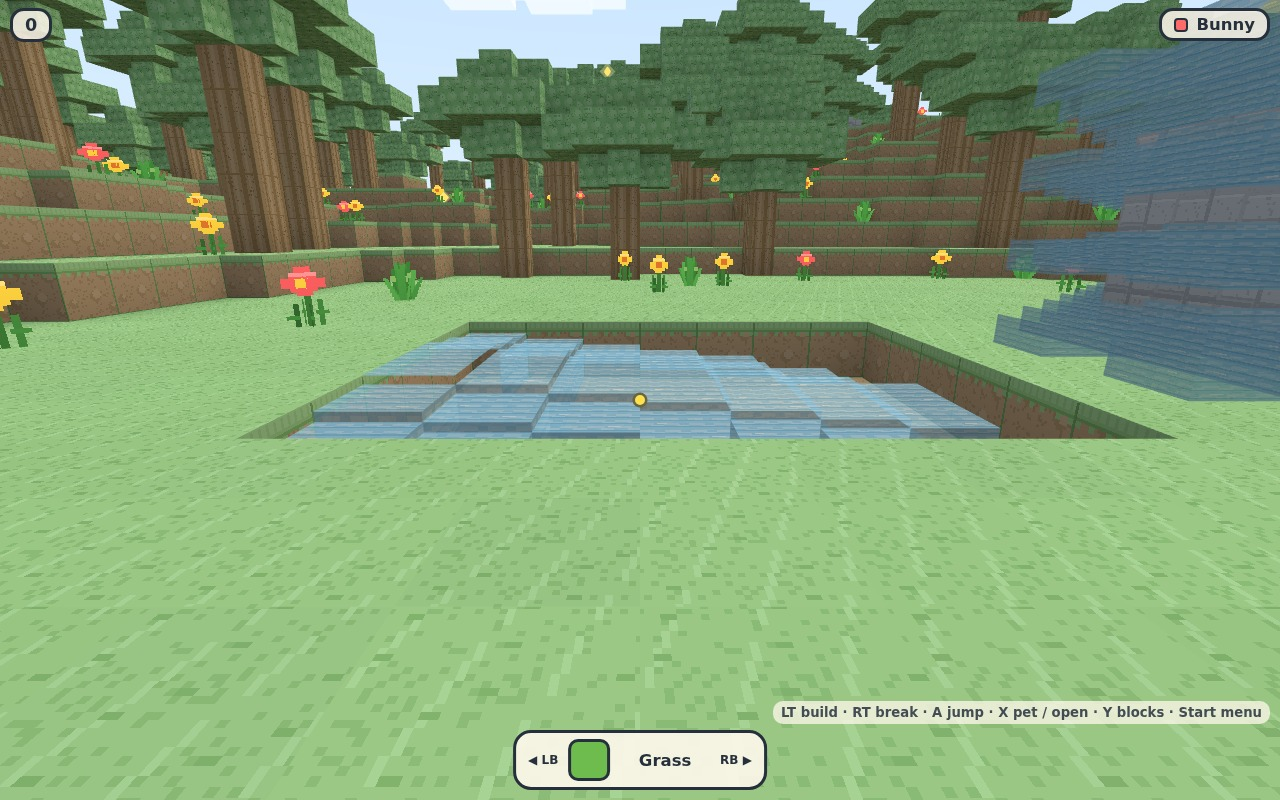
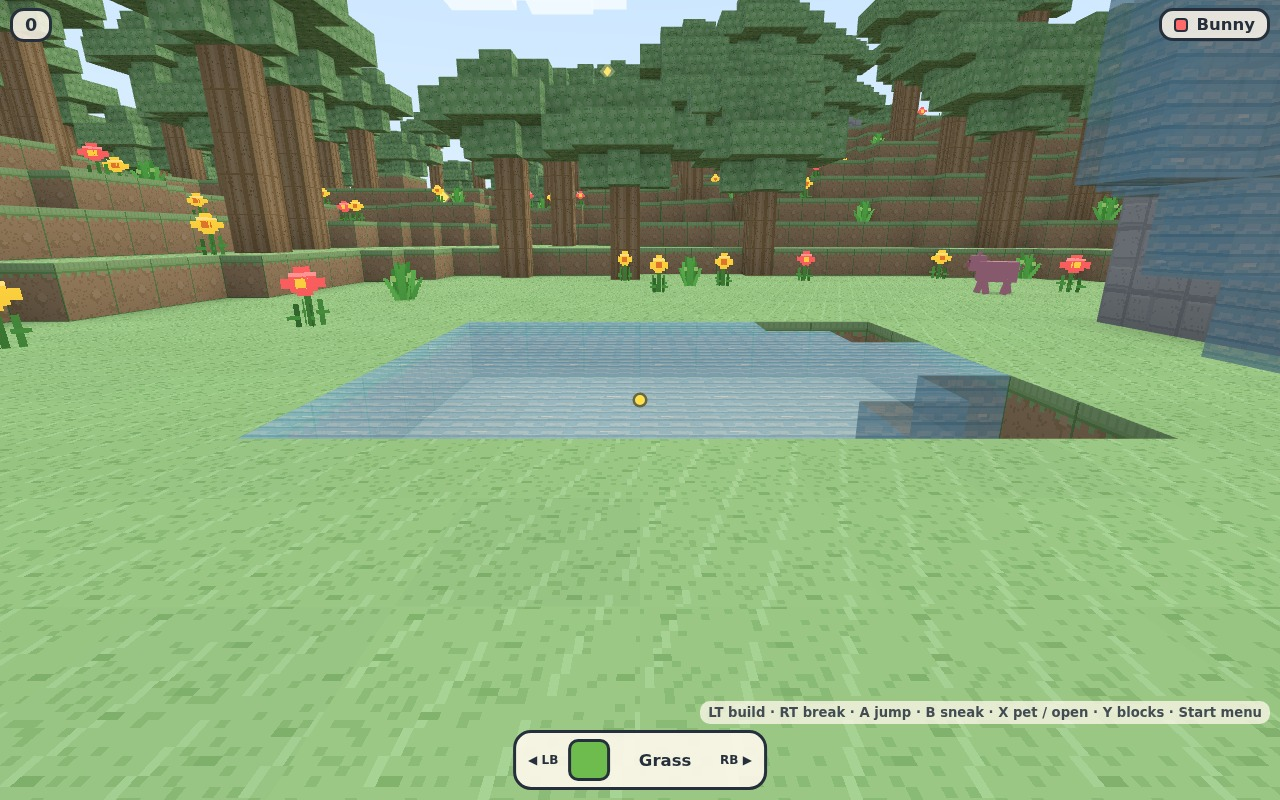
feat(water): render every water cell as a full-height block
Depth levels stay sim-only (reach, drying); the mesher draws sources and
flow cells as the same translucent textured cube, and water<->water face
culling keeps pools reading as one body. Drops the depth-scaled slab and
the now-unused blocks.waterTop(). Re-shoots both PR water screenshots.

diff --git a/scripts/pr-water-shot.ts b/scripts/pr-water-shot.ts
@@ -70,9 +70,11 @@ await page.evaluate(() => {
     }
   }
 
-  // two features on one lawn: a flush pond whose stepped surface shows the
-  // reach limit, and a stone cliff with a source on its rim — the water
-  // cascades down the cliff face in shallowing steps into a splash pool
+  // two features on one lawn: a flush pond whose water reaches exactly six
+  // cells from its sources, and a stone cliff with a source on its rim — the
+  // water spills over the edge and runs down the cliff face into a splash
+  // pool. Everything renders as full water blocks (the flow depths are sim
+  // state, not draw height), so the whole thing reads as one body of water.
   for (let x = mid - 8; x <= mid - 2; x++) {
     for (let z = mid - 3; z <= mid + 2; z++) S.set(x, gy, z, AIR); // pond (floor: ground)
   }
@@ -81,11 +83,10 @@ await page.evaluate(() => {
 
   for (let x = mid + 3; x <= mid + 6; x++) {
     for (let z = mid - 3; z <= mid + 2; z++) {
-      for (let y = gy + 1; y <= gy + 3; y++) S.set(x, y, z, 3); // 3-tall cliff wall
+      for (let y = gy + 1; y <= gy + 7; y++) S.set(x, y, z, 3); // 7-tall cliff tower
     }
   }
-  S.set(mid + 6, gy + 4, mid - 1, WATER); // sources on the rim's east edge
-  S.set(mid + 6, gy + 4, mid + 1, WATER);
+  S.set(mid + 6, gy + 8, mid, WATER); // source on the rim's east edge
 
   // third-person camera will be parked by the shots below
   const p = game.players[0];
@@ -126,14 +127,15 @@ await page.evaluate((m: number) => {
 await page.waitForTimeout(1200);
 await page.screenshot({ path: `${outDir}/water-channel.jpg`, type: 'jpeg', quality: 92 });
 
-// ---- shot 2: the waterfall, full depth all the way down ----
+// ---- shot 2: the waterfall — tall stone tower, full-height cascade ----
+// far south-east so the bare stone faces and the water shelf read separately
 await page.evaluate((m: number) => {
   const game = (window as any).__lbw.game;
   const gy = game.world.surfaceY(m, m);
   const p = game.players[0];
-  p.entity.pos.set(m + 12.5, gy + 1.02, m + 3);
-  p.entity.yaw = Math.atan2(-6.5, -3.5); // look at the cliff face and its cascade
-  p.entity.pitch = -0.24;
+  p.entity.pos.set(m + 10, gy + 10, m + 16);
+  p.entity.yaw = Math.atan2((m + 5) - (m + 10), m - (m + 16)); // face the tower
+  p.entity.pitch = -0.4;
   p.entity.vel.set(0, 0, 0);
 }, Math.floor(128 / 2));
 await page.waitForTimeout(1200);

diff --git a/src/core/mesher.ts b/src/core/mesher.ts
@@ -6,9 +6,9 @@
 
 import * as THREE from 'three';
 import {
-  ATLAS_CELL_COUNT, ATLAS_DOOR, ATLAS_PLANKS, ATLAS_WATER, blockDef, isCrossBlock, isDoorBlock,
+  ATLAS_CELL_COUNT, ATLAS_DOOR, ATLAS_PLANKS, blockDef, isCrossBlock, isDoorBlock,
   isDoorClosedBlock, isFullCellBlock, isOpaqueBlock, isStairsBlock, isTranslucentBlock, isWaterId,
-  PLANT_ATLAS_CELLS, SAND, StairFacing, stairBoxes, VoxelBox, WATER, WATER_FLOW, waterTop,
+  PLANT_ATLAS_CELLS, SAND, StairFacing, stairBoxes, VoxelBox,
 } from './blocks';
 import { CHUNK, idx as worldIdx, WORLD_SY, World } from './world';
 
@@ -194,27 +194,6 @@ export function buildChunkGeometry(
           const box = doorPanelBox(world, x, y, z)!;
           addTexturedSubBox(tex, world, [x, y, z], box, def.sideAtlasCell ?? ATLAS_DOOR,
             { cullFlush: true });
-          continue;
-        }
-        if (id === WATER_FLOW) {
-          // travelling water: a shallow slab of the water art, its height telling
-          // kids how deep the supply is. Faces buried in other water or solids
-          // are dropped, so a pool reads as one body, not seven boxes.
-          const lvl = world.waterLevel.get(worldIdx(x, y, z)) ?? 6;
-          const h = waterTop(WATER_FLOW, lvl);
-          const skip = FACES.map((f) => {
-            const n = world.get(x + f.dir[0], y + f.dir[1], z + f.dir[2]);
-            if (isFullCellBlock(n)) return true;
-            if (n === WATER) return true; // a source covers this whole side
-            if (n === WATER_FLOW) {
-              if (f.dir[1] !== 0) return true; // top/bottom under other water
-              const nlvl = world.waterLevel.get(worldIdx(x + f.dir[0], y + f.dir[1], z + f.dir[2])) ?? 6;
-              return waterTop(WATER_FLOW, nlvl) >= h;
-            }
-            return false;
-          });
-          addTexturedSubBox(texT, world, [x, y, z], [x, y, z, x + 1, y + h, z + 1],
-            ATLAS_WATER, { skip, capCell: ATLAS_WATER });
           continue;
         }
 

diff --git a/src/core/blocks.ts b/src/core/blocks.ts
@@ -316,16 +316,6 @@ export function isWaterId(id: BlockId): boolean {
   return id === WATER || id === WATER_FLOW;
 }
 
-/**
- * Surface height of a water cell: sources stand full, travelling water
- * shallows with its flow depth (see core/water.ts) — level 1 tops out at
- * 0.9, level 6 is a 0.3 puddle.
- */
-export function waterTop(id: BlockId, flowLevel: number): number {
-  if (id !== WATER_FLOW) return 1;
-  return 1 - Math.min(Math.max(flowLevel, 1), 7) * 0.1;
-}
-
 export function isCrossBlock(id: BlockId): boolean {
   return id !== AIR && !!blockDef(id).cross;
 }

diff --git a/AGENTS.md b/AGENTS.md
@@ -192,13 +192,14 @@ event. Renaming a storage key orphans the family's existing saves.
   `notify`s its neighbours when its own level changes, incl. shallowing) until
   they fall past the cap and dry, cell by cell. `world.set` deletes the level
   entry; improving an existing flow cell's depth needs `world.touchAt` (same id,
-  so `set` early-returns). The mesher draws flow cells as shallow
-  `addTexturedSubBox`es (`waterTop(id, level)` in blocks.ts = the drawn height)
-  with water↔water face culling so a pool reads as one body; sources stay
-  full-cell translucent. Anything wet is `blocks.isWaterId(id)` — physics, sand
-  (displaced water rides up), blasts (skip both ids), animals/collectibles all
-  use it, never a bare `=== WATER`. Terrain writes cells directly (no hook), so
-  a fresh sea starts still. **Tests:** terrain ponds and the sea are eternal
+  so `set` early-returns). **All water renders full-cell** — sources and flow
+  cells are the same translucent textured cube; the depth level is sim-only
+  (reach, drying), never a draw height, so floods read as solid water bodies
+  instead of floating ribbons. The general face pass culls water↔water faces
+  (`isWaterId(id) && isWaterId(n)`) so a pool reads as one body. Anything wet
+  is `blocks.isWaterId(id)` — physics, sand (displaced water rides up), blasts
+  (skip both ids), animals/collectibles all use it, never a bare `=== WATER`.
+  Terrain writes cells directly (no hook), so a fresh sea starts still. **Tests:** terrain ponds and the sea are eternal
   *flowing* sources on this branch — any e2e course near spawn must ring its
   site with a full-height stone caisson and scrub every wet cell inside, since
   falling water keeps its depth and one wet cell left above a wall re-rains
